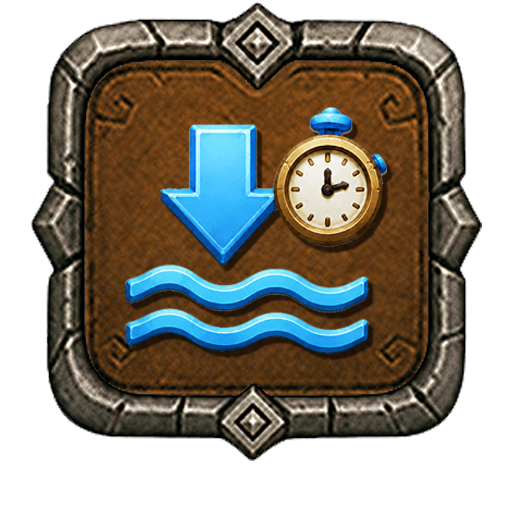
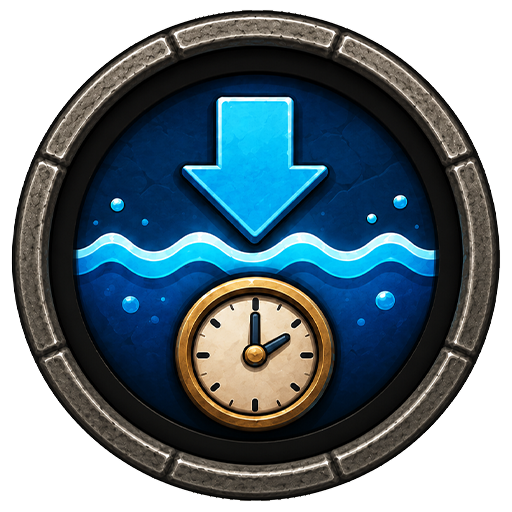
up

diff --git a/index.html b/index.html
@@ -186,11 +186,23 @@
     <button class="buf-btn change-btn" id="changePieceBtn" aria-label="Change piece" title="Change piece">
       <span class="buf-btn-charges" id="changeChargesDisplay">3</span>
     </button>
+    <div class="buf-dots" id="changeDots">
+      <span class="buf-dot"></span>
+      <span class="buf-dot"></span>
+      <span class="buf-dot"></span>
+      <span class="buf-dot"></span>
+    </div>
   </div>
   <div class="buf-side-wrap buf-side-right">
     <button class="buf-btn shuffle-btn" id="shuffleColorsBtn" aria-label="Shuffle colors" title="Shuffle colors">
       <span class="buf-btn-charges" id="shuffleChargesDisplay">3</span>
     </button>
+    <div class="buf-dots" id="shuffleDots">
+      <span class="buf-dot"></span>
+      <span class="buf-dot"></span>
+      <span class="buf-dot"></span>
+      <span class="buf-dot"></span>
+    </div>
   </div>
   <!-- Pause button (replaces settings button during game) -->
   <button class="pause-btn hidden" id="pauseBtn" aria-label="Pause"></button>
@@ -202,21 +214,20 @@
   <!-- KZ Drop booster (standalone killzone-lowering, all modes) -->
   <div class="kzdrop-wrap">
     <button class="kzdrop-btn empty" id="kzDropBtn" type="button" aria-label="KZ Drop" title="KZ Drop">
-      <span class="kzdrop-icon">💧</span>
       <span class="kzdrop-charges"></span>
     </button>
   </div>
   <!-- Magic buttons -->
   <div class="color-row" id="magicRow" aria-label="Magic">
-    <button class="color-btn" id="magicBlue" data-element="water" style="background:radial-gradient(circle, #4da6ff 40%, rgba(14,20,28,0.85) 70%);"><span class="charges">3</span></button>
-    <button class="color-btn" id="magicGreen" data-element="earth" style="background:radial-gradient(circle, #47d16a 40%, rgba(14,20,28,0.85) 70%);"><span class="charges">3</span></button>
+    <button class="color-btn" id="magicBlue" data-element="water" aria-label="Water"><span class="charges">3</span></button>
+    <button class="color-btn" id="magicGreen" data-element="earth" aria-label="Earth"><span class="charges">3</span></button>
     <button class="magic-active-indicator hidden" id="magicActiveIndicator" type="button" aria-label="Active magic indicator">
       <div class="magic-active-progress"></div>
-      <span class="magic-active-icon" id="magicActiveIcon">💧</span>
+      <span class="magic-active-icon" id="magicActiveIcon"></span>
       <span class="magic-active-cost" id="magicActiveCost"></span>
     </button>
-    <button class="color-btn" id="magicYellow" data-element="lightning" style="background:radial-gradient(circle, #ffd84d 40%, rgba(14,20,28,0.85) 70%);"><span class="charges">3</span></button>
-    <button class="color-btn" id="magicRed" data-element="fire" style="background:radial-gradient(circle, #ff4d4d 40%, rgba(14,20,28,0.85) 70%);"><span class="charges">3</span></button>
+    <button class="color-btn" id="magicYellow" data-element="lightning" aria-label="Lightning"><span class="charges">3</span></button>
+    <button class="color-btn" id="magicRed" data-element="fire" aria-label="Fire"><span class="charges">3</span></button>
   </div>
 </div>
 <div class="overlay" id="overlay">